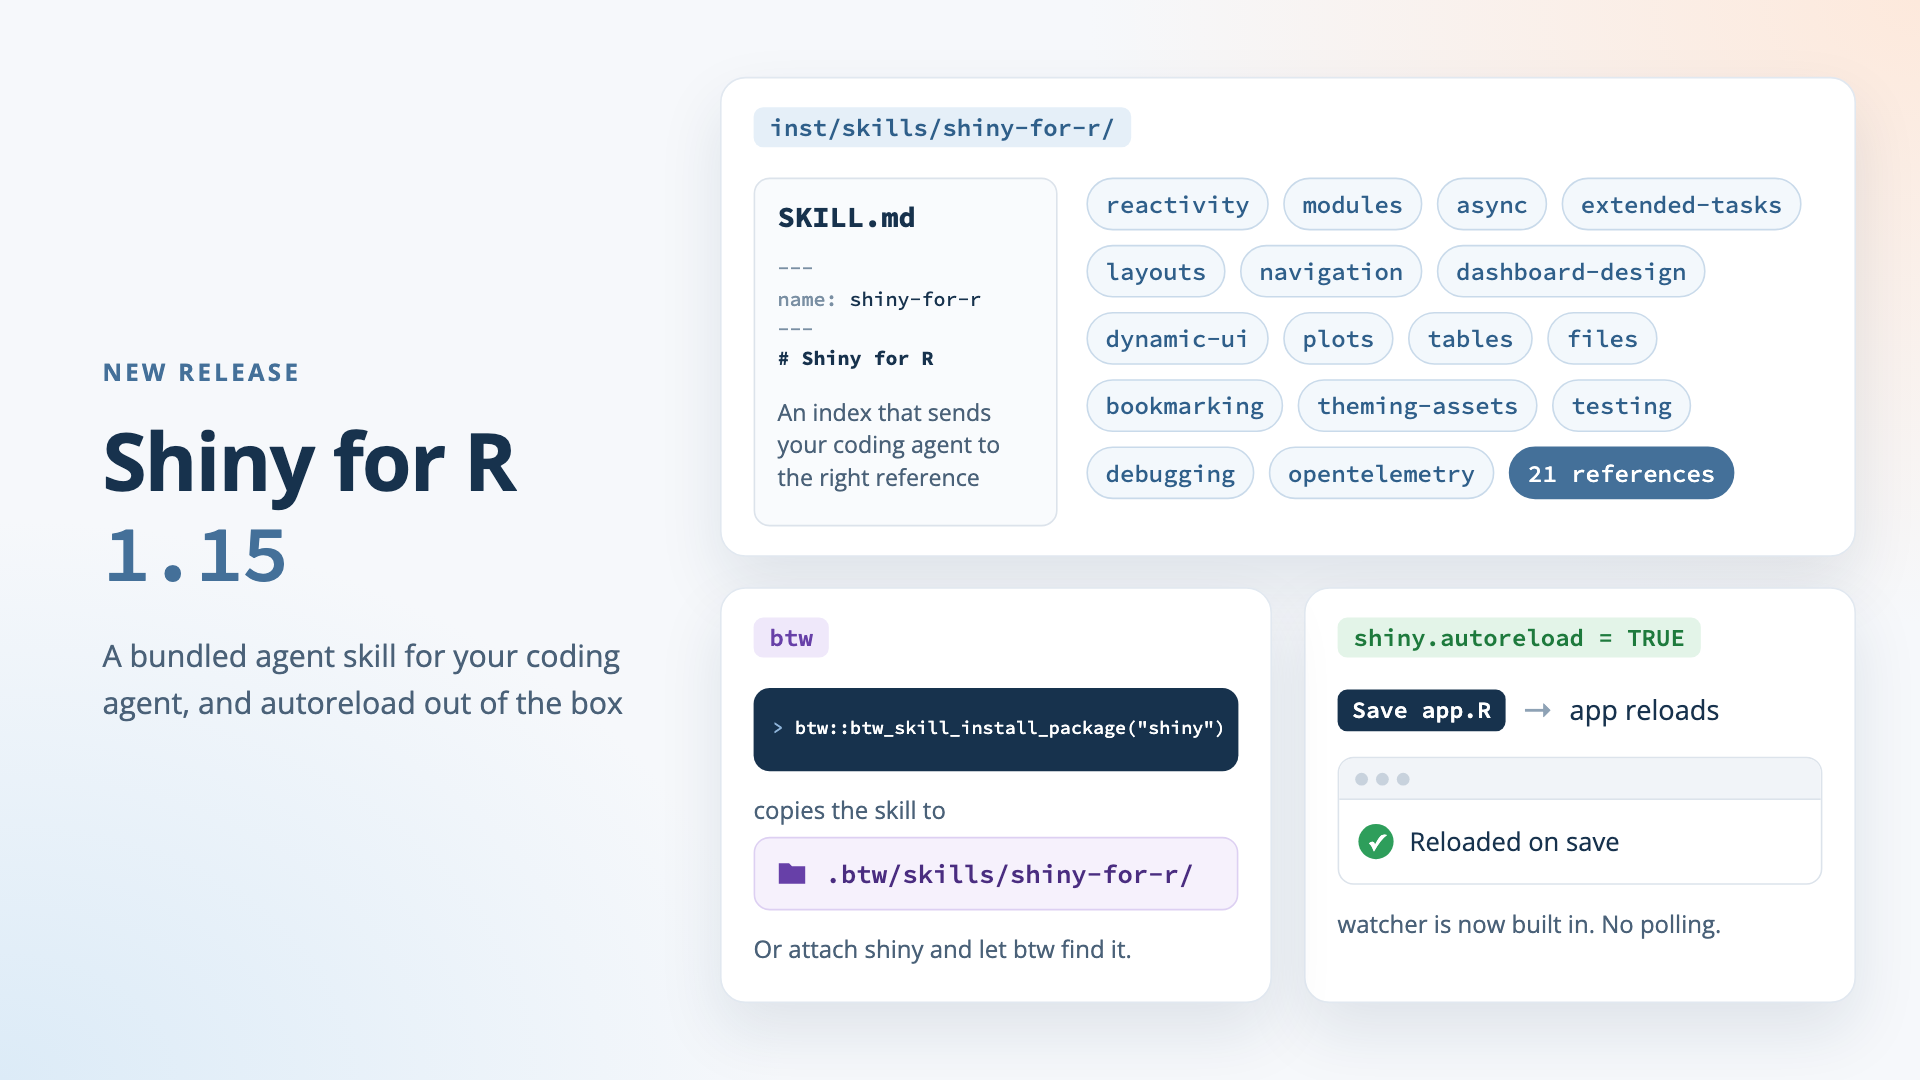
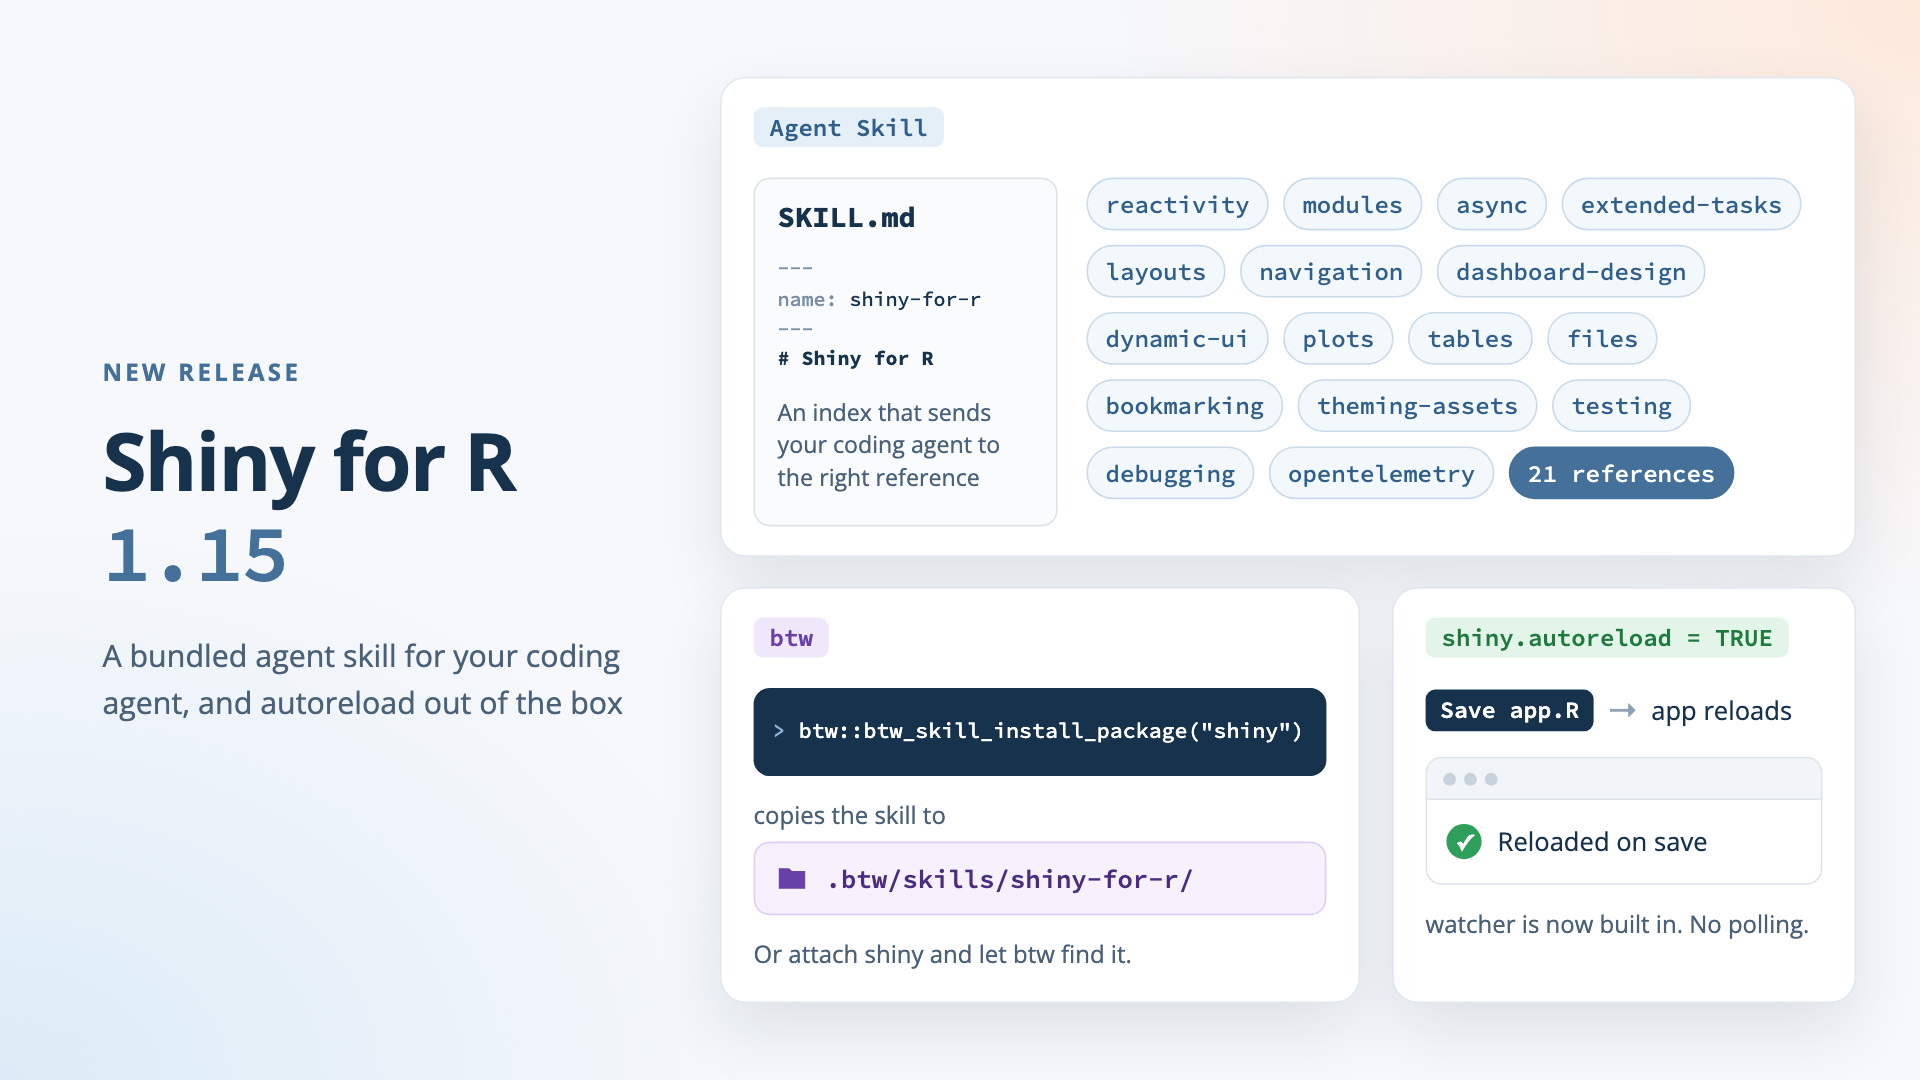
docs(blog): relabel skill card and enlarge btw code in feature image

diff --git a/content/blog/shiny-r-1-15/_feature-src/feature.html b/content/blog/shiny-r-1-15/_feature-src/feature.html
@@ -45,8 +45,8 @@
     padding: 18px 20px; overflow: hidden;
   }
   .t1 { left: 450px; top: 48px; width: 710px; height: 300px; }
-  .t2 { left: 815px; top: 367px; width: 345px; height: 260px; }
-  .t3 { left: 450px; top: 367px; width: 345px; height: 260px; }
+  .t2 { left: 870px; top: 367px; width: 290px; height: 260px; }
+  .t3 { left: 450px; top: 367px; width: 400px; height: 260px; }
   .tag { font-family: "Source Code Pro", monospace; font-size: 15px; font-weight: 600;
          display: inline-block; padding: 3px 10px; border-radius: 6px; }
   .tag.blue   { background: #E5EFF8; color: #2F5F8A; }
@@ -70,7 +70,7 @@
   .ref.more { background: #447099; color: #fff; border-color: #447099; }
 
   /* tile 2: autoreload */
-  .save { display: flex; align-items: center; gap: 10px; font-size: 17px; margin-bottom: 16px; }
+  .save { display: flex; align-items: center; gap: 8px; font-size: 16px; margin-bottom: 16px; }
   .key { font-family: "Source Code Pro", monospace; font-size: 14.5px; font-weight: 600;
          padding: 4px 9px; border-radius: 6px; background: #17324D; color: #fff; }
   .arrow { color: #8EA2B5; font-size: 20px; }
@@ -84,7 +84,7 @@
   .small { margin-top: 14px; font-size: 15px; color: #4A6178; }
 
   /* tile 3: install the skill with btw */
-  .term { font-family: "Source Code Pro", monospace; font-size: 11.5px; font-weight: 500;
+  .term { font-family: "Source Code Pro", monospace; font-size: 13.5px; font-weight: 500;
           background: #17324D; color: #fff; border-radius: 10px; padding: 16px 12px;
           line-height: 1.7; white-space: nowrap; }
   .term .prompt { color: #8FB4D9; }
@@ -103,7 +103,7 @@
   </div>
 
   <div class="tile t1">
-    <span class="tag blue">inst/skills/shiny-for-r/</span>
+    <span class="tag blue">Agent Skill</span>
     <div class="body">
       <div class="skill">
         <div class="file">
